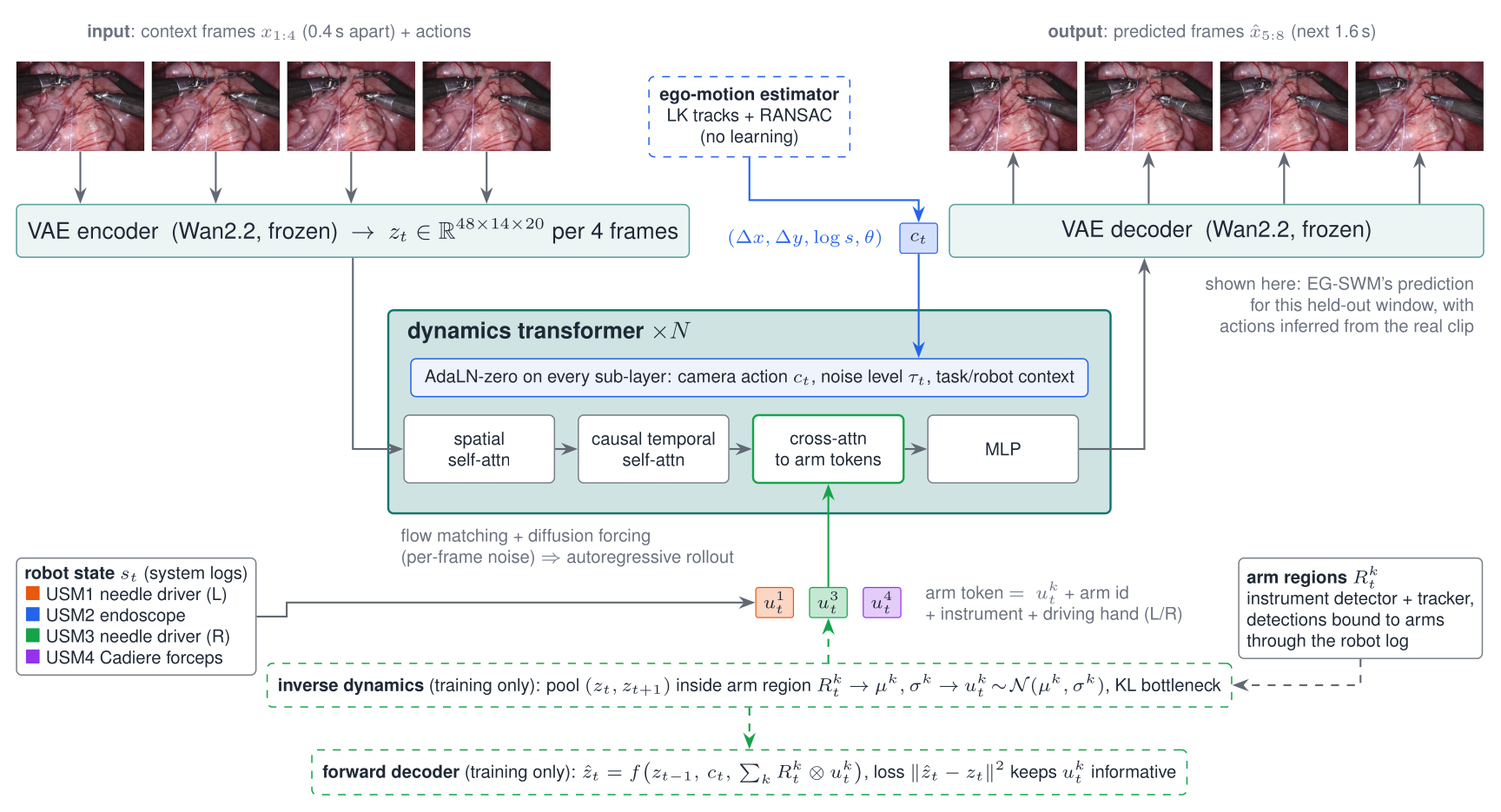
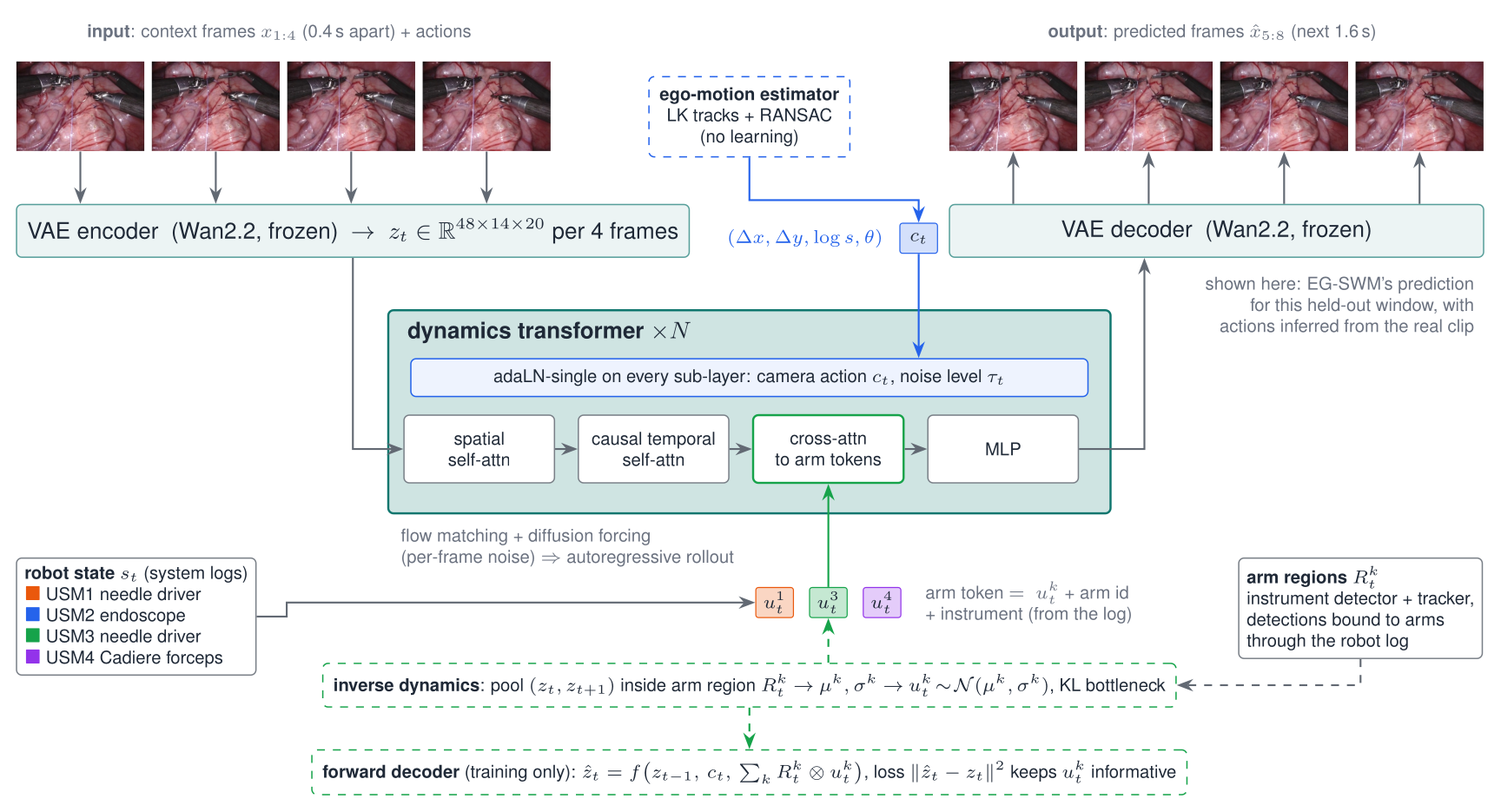
Console-readout ablation (320): adds nothing beyond the log; the arm token and architecture figure now match the evaluated model (no driving hand, adaLN on noise level and endoscope action only)

diff --git a/paper/tmrb/sections/results.tex b/paper/tmrb/sections/results.tex
@@ -37,6 +37,8 @@ Grounding is what makes the arm actions local. When each arm's inverse-dynamics 
 
 The binding through the robot log decides which instrument an action moves. When the instrument arms of each window take each other's regions in a fixed cycle, so that every instrument still has an action but in the token of another arm, fidelity is practically unchanged (\val{diff/S_arms_shuffled-S_arms/psnr}\,dB \val{diff/S_arms_shuffled-S_arms/psnr_ci}) and the actions are used as much (another window's arm actions raise the replay error by \val{use/S_arms_shuffled/swap}\,\% against \val{use/S_arms/swap}\,\%), but replacing an arm's action no longer changes that arm's instrument more than the rest of the frame (locality \val{ctl/S_arms_shuffled/locality} \val{ctl/S_arms_shuffled/locality_ci}, below \method{}'s in \val{diff/S_arms-S_arms_shuffled/locality_wins} of \val{main/n_cases} cases). A wrong binding is invisible to the fidelity metrics; only a test of where each action acts reveals it.
 
+The console overlay adds nothing beyond the robot log. With the driving hand and energy activation of each arm in its token, fidelity is practically unchanged (\val{diff/S_arms_ui-S_arms/psnr}\,dB \val{diff/S_arms_ui-S_arms/psnr_ci}), and so are the use of the actions (another window's arm actions raise the replay error by \val{use/S_arms_ui/swap}\,\%), their locality (\val{ctl/S_arms_ui/locality} \val{ctl/S_arms_ui/locality_ci}) and endoscope control (gain \val{ctl/S_arms_ui/gain}), presumably because actions inferred from the real clip already tell which arms move.
+
 The forward decoder keeps the arm actions in use. Trained on the diffusion loss alone, only \val{use/S_arms_nofwd/active} of the 8 dimensions of each arm action stay active (KL \val{use/S_arms_nofwd/kl} instead of \val{use/S_arms/kl}\,nats per arm), another window's arm actions raise the replay error by \val{use/S_arms_nofwd/swap}\,\% instead of \val{use/S_arms/swap}\,\%, and replaying the inferred actions is worth \val{main/S_arms_nofwd/delta_psnr} instead of \val{main/S_arms/delta_psnr}\,dB over the actions of another window. Their effect is also slightly less local (ratio \val{ctl/S_arms_nofwd/locality}, \val{diff/S_arms-S_arms_nofwd/locality} \val{diff/S_arms-S_arms_nofwd/locality_ci} below \method{}'s), though \method{} is the more local in only \val{diff/S_arms-S_arms_nofwd/locality_wins} of the \val{main/n_cases} cases. The decoder improves fidelity by \val{diff/S_arms-S_arms_nofwd/psnr}\,dB PSNR \val{diff/S_arms-S_arms_nofwd/psnr_ci}, in \val{diff/S_arms-S_arms_nofwd/wins} of \val{main/n_cases} cases, and lowers FVD from \val{main/S_arms_nofwd/fvd} to \val{main/S_arms/fvd}, while the endoscope action is realised about as well without it (mean gain \val{ctl/S_arms_nofwd/gain} against \val{ctl/S_arms/gain}).
 
 \begin{table*}[t]

diff --git a/docs/diagrams/architecture.tex b/docs/diagrams/architecture.tex
@@ -31,7 +31,7 @@
 \node[learn, minimum width=96mm, minimum height=27mm, anchor=north] (dyn) at (97.5, -33) {};
 \node[anchor=north west, font=\sffamily\small\bfseries] at ($(dyn.north west)+(1.5,-0.5)$) {dynamics transformer $\times N$};
 \node[box, draw=cam, fill=cam!8, minimum width=90mm, font=\sffamily\scriptsize, anchor=north] (ada) at (97.5, -39.5)
-  {AdaLN-zero on every sub-layer: camera action $c_t$, noise level $\tau_t$, task/robot context};
+  {adaLN-single on every sub-layer: camera action $c_t$, noise level $\tau_t$};
 \node[box, font=\sffamily\scriptsize, minimum width=20mm, minimum height=9mm, anchor=north west] (sa) at (51.5, -47) {spatial\\ self-attn};
 \node[box, font=\sffamily\scriptsize, minimum width=20mm, minimum height=9mm, right=3mm of sa] (ta) {causal temporal\\ self-attn};
 \node[box, font=\sffamily\scriptsize, minimum width=20mm, minimum height=9mm, right=3mm of ta, draw=armB, line width=0.8pt] (xa) {cross-attn\\ to arm tokens};
@@ -54,11 +54,11 @@
 \node[token, fill=armA!25, draw=armA, left=2mm of u3] (u1) {$u^1_t$};
 
 \node[token, fill=armC!25, draw=armC, right=2mm of u3] (u4) {$u^4_t$};
-\node[note, right=2mm of u4, align=left, anchor=west] (tok) {arm token $=\ u^k_t$ + arm id\\ + instrument + driving hand (L/R)};
+\node[note, right=2mm of u4, align=left, anchor=west] (tok) {arm token $=\ u^k_t$ + arm id\\ + instrument (from the log)};
 \draw[flow, draw=armB] (u3.north) -- (xa.south);
 
 \node[box, draw=armB, dashed, font=\sffamily\scriptsize, align=left, anchor=north] (idm) at (97.5, -80)
-  {\textbf{inverse dynamics} (training only): pool $(z_t, z_{t+1})$ inside arm region $R^k_t$ $\to$
+  {\textbf{inverse dynamics}: pool $(z_t, z_{t+1})$ inside arm region $R^k_t$ $\to$
    $\mu^k,\sigma^k$ $\to$ $u^k_t\!\sim\!\mathcal{N}(\mu^k,\sigma^k)$, KL bottleneck};
 \draw[flow, draw=armB, dashed] (u3.south |- idm.north) -- (u3.south);
 \node[box, draw=armB, dashed, font=\sffamily\scriptsize, align=left, anchor=north] (fwd) at (97.5, -91.5)
@@ -68,9 +68,9 @@
 
 \node[box, align=left, font=\sffamily\scriptsize, anchor=north west, inner sep=3pt] (state) at (0, -66) {%
   \textbf{robot state} $s_t$ (system logs)\\
-  \textcolor{armA}{$\blacksquare$} USM1 needle driver (L)\\
+  \textcolor{armA}{$\blacksquare$} USM1 needle driver\\
   \textcolor{cam}{$\blacksquare$} USM2 endoscope\\
-  \textcolor{armB}{$\blacksquare$} USM3 needle driver (R)\\
+  \textcolor{armB}{$\blacksquare$} USM3 needle driver\\
   \textcolor{armC}{$\blacksquare$} USM4 Cadiere forceps};
 \draw[flow] (state.east) -- ++(4,0) |- (u1.west);
 

diff --git a/paper/tmrb/sections/method.tex b/paper/tmrb/sections/method.tex
@@ -35,9 +35,9 @@ with $u^k_t\in\mathbb{R}^{8}$. A Kullback--Leibler penalty towards $\mathcal{N}(
 \subsection{Dynamics transformer}
 The dynamics model is a latent spatio-temporal diffusion transformer. Latent positions become tokens; each block applies self-attention within a frame with 2-D rotary embeddings \cite{rope}, causal self-attention across frames at each position, cross-attention to the arm tokens of the frame, and a SwiGLU MLP. Arm $k$ at step $t$ contributes the token
 \begin{equation}
-e^k_t=W_u u^k_t+E_{\mathrm{arm}}[k]+E_{\mathrm{occ}}[o^k_t]+E_{\mathrm{hand}}[h^k_t],
+e^k_t=W_u u^k_t+E_{\mathrm{arm}}[k]+E_{\mathrm{occ}}[o^k_t],
 \end{equation}
-where $h^k_t$ is the driving hand when the overlay shows it. The noise level and the endoscope action modulate every sub-layer through adaptive normalization with a shared projection and per-block offsets \cite{pixartalpha}.
+with $o^k_t$ the occupant from the robot log. Adding the driving hand and energy activation read from the console overlay changes neither prediction nor control (Section~\ref{sec:parts}), so \method{} does without them. The noise level and the endoscope action modulate every sub-layer through adaptive normalization with a shared projection and per-block offsets \cite{pixartalpha}.
 
 \subsection{Training objective}
 We train with rectified flow \cite{rectflow,flowmatching}. Every latent frame has its own noise level $\tau_t\in[0,1]$, $x_t=(1-\tau_t)z_t+\tau_t\epsilon_t$, and the network predicts the velocity $\epsilon_t-z_t$:

diff --git a/paper/tmrb/sections/data.tex b/paper/tmrb/sections/data.tex
@@ -12,7 +12,7 @@ The logs record part-relative times; converted to a single case timeline they gi
 \end{figure*}
 
 \subsection{Console overlay}
-The surgeon console renders a status band over the recorded video on 81\,\% of usable frames. Per arm it shows the mounted instrument, the endoscope, the hand (left/right) that currently drives the arm, and energy activation. We crop the band away before the model sees any pixel, so that the model cannot read instrument identities from the screen, and use the overlay only as a source of conditioning and evaluation labels.
+The surgeon console renders a status band over the recorded video on 81\,\% of usable frames. Per arm it shows the mounted instrument, the endoscope, the hand (left/right) that currently drives the arm, and energy activation. We crop the band away before the model sees any pixel, so that the model cannot read instrument identities from the screen. The driving hand and energy activation of each arm, read from the band, are tested as additional conditioning (Section~\ref{sec:parts}).
 
 \begin{figure*}[t]
 \centering

diff --git a/src/swm/models/world_model.py b/src/swm/models/world_model.py
@@ -1,7 +1,7 @@
 """EG-SWM and its baselines: one dynamics transformer, different action interfaces.
 
 action = "none"    no tokens at all (unconditional video prediction)
-         "state"   robot-state tokens only (arm id + occupant + hand), no learned action
+         "state"   robot-state tokens only (arm id + occupant; + driving hand and energy with use_ui), no learned action
          "global"  robot-state tokens + one monolithic latent action per transition (continuous)
          "global_vq" as "global" but a discrete action from a 12-entry codebook (Genie / SurgWM style)
          "slots"   robot-state tokens + K unsupervised slot actions (FLAM style)

diff --git a/README.md b/README.md
@@ -5,7 +5,7 @@
 * Weights (public, CC BY-NC-SA 4.0): <https://huggingface.co/GOVINDFROM/surgical-world-model> — one folder per finished run (EMA weights, config, evaluation summaries), published by each queue job
 * Research documents: [data audit](docs/01_data_audit.md) · [external data](docs/02_external_data.md) · [literature review](docs/03_literature_review.md) · [research plan](docs/04_research_plan.md) · [legacy](docs/legacy.md)
 
-## Status (updated 2026-11-05, 11:25 IST)
+## Status (updated 2026-11-05, 18:20 IST)
 
 | Stage | State |
 |---|---|
@@ -16,8 +16,8 @@
 | Camera-action validation (E2b) | done on CRCD (endoscope-arm kinematics) and AutoLaparo (surgeon-labelled laparoscope moves) — see results below |
 | External downloads | all done; AutoLaparo Task 2 received from the authors (300 clips, 3.8 GB) and used for E2b |
 | Pilot (S, partial data) | diffusion loss only: learned arm actions collapse; the forward-decoder objective (not the weaker bottleneck) makes them used, and action replay is 12 % more accurate (confirmed at full scale by `305`). The monolithic action replays 17 % better still, almost all outside the instrument regions; a scene action (`095`) closes the gap but weakens the endoscope action; neither learned-only dropout (`096`) nor camera-stabilised inference (`097`) restores it; arms + scene ran as a full variant (`205`, below) |
-| 10 controlled runs (incl. arms + scene) → reference evaluation → 5 grounding/readout/objective ablations | all 10 interface runs done and evaluated, weights on Hugging Face. Fidelity and control pull apart: the learned actions that cover the whole frame (slots, monolithic, scene) predict 0.4–0.8 dB better than EG-SWM in every case but realise only 5–22 % of a commanded endoscope move (EG-SWM 70 %); among the interfaces that keep the endoscope controllable, EG-SWM leads SurgWM-style VQ by 0.70 dB and robot state by 1.57 dB, and it is the only one that steers each instrument and beats a copied frame. The endoscope action is worth 0.49 dB to EG-SWM. The fidelity gap sits where no instrument is bound to an arm: with two or more bound, EG-SWM trails the monolithic latent by only 0.18 dB. Ablations: grounding (`S_arms_poolglobal`, done 4 Nov) is what makes the arm actions local — pooled over the whole frame they predict as well (+0.06 dB) but locality falls from 2.42× to 1.84×; the forward decoder (`S_arms_nofwd`, done 5 Nov) keeps them in use — without it only 3 of 8 action dimensions stay active and the picture is 0.36 dB worse in every case; the arm binding (`S_arms_shuffled`, done 5 Nov) decides which instrument an action moves — with a wrong one the picture is unchanged but locality falls to 0.90×, lower in all 19 cases; next console readout, held boxes (≈ 6.7 h each). A power cut stopped the machine from 29 Oct 16:23 to 2 Nov 13:38, and a Wi-Fi outage on 3 Nov delayed two uploads (caught up) |
-| Pre-submission checklist (4 Nov), see [research plan §10](docs/04_research_plan.md#10-pre-submission-checklist) | queued after E3: SurgWM re-implementation (`600`–`603`), E3 on SRT-H (`610`–`619`), E4 on SAR-RARP50 (`620`–`625`), seeds 1–2 of EG-SWM, monolithic, slots and VQ (`710`–`717`), KL weight and data scale (`720`–`731`); sensitivity to sampler, context and command size without `case_126` (`330`–`332`); figures from model rollouts (`302`); 14 s rollouts (`333`); a test of the scene-action explanation (`334`); boxes held across detector gaps (`325`); locality intervals over cases (`306`). The SurgWM smoke test (`301`) showed both of its quantisers collapsing, so the re-implementation now follows the paper's moving-average quantisers and 16-frame clips and the authors' released action model (causal, one prompt token per frame); re-tested by `304`, which passed. Cross-checked against the checklist on 4 Nov: every compared run has the same size, steps, batch, seed and data, and every evaluation the same windows without `case_126`; the wrong-binding ablation (`310`) was corrected before it ran (it also switched off 12 % of the arm actions); SurgWM now also gets locality and embodiment consistency (`603`; its smoke test `308` passed on 5 Nov); the zero-shot kinematic probes include the forward-decoder and endoscope ablations; the paper's protocol text and B parameter count were corrected, and every result number in its text is now generated. About 216 GPU-hours remain (SurgWM about 57 of them), so with the size-B flagship (designed once the ablations finish) the queue runs to about 14–15 Nov |
+| 10 controlled runs (incl. arms + scene) → reference evaluation → 5 grounding/readout/objective ablations | all 10 interface runs done and evaluated, weights on Hugging Face. Fidelity and control pull apart: the learned actions that cover the whole frame (slots, monolithic, scene) predict 0.4–0.8 dB better than EG-SWM in every case but realise only 5–22 % of a commanded endoscope move (EG-SWM 70 %); among the interfaces that keep the endoscope controllable, EG-SWM leads SurgWM-style VQ by 0.70 dB and robot state by 1.57 dB, and it is the only one that steers each instrument and beats a copied frame. The endoscope action is worth 0.49 dB to EG-SWM. The fidelity gap sits where no instrument is bound to an arm: with two or more bound, EG-SWM trails the monolithic latent by only 0.18 dB. Ablations: grounding (`S_arms_poolglobal`, done 4 Nov) is what makes the arm actions local — pooled over the whole frame they predict as well (+0.06 dB) but locality falls from 2.42× to 1.84×; the forward decoder (`S_arms_nofwd`, done 5 Nov) keeps them in use — without it only 3 of 8 action dimensions stay active and the picture is 0.36 dB worse in every case; the arm binding (`S_arms_shuffled`, done 5 Nov) decides which instrument an action moves — with a wrong one the picture is unchanged but locality falls to 0.90×, lower in all 19 cases; the console readout (`S_arms_ui`, done 5 Nov) adds nothing beyond the log (−0.02 dB, locality 2.40×); next held boxes (≈ 6.7 h). A power cut stopped the machine from 29 Oct 16:23 to 2 Nov 13:38, and a Wi-Fi outage on 3 Nov delayed two uploads (caught up) |
+| Pre-submission checklist (4 Nov), see [research plan §10](docs/04_research_plan.md#10-pre-submission-checklist) | queued after E3: SurgWM re-implementation (`600`–`603`), E3 on SRT-H (`610`–`619`), E4 on SAR-RARP50 (`620`–`625`), seeds 1–2 of EG-SWM, monolithic, slots and VQ (`710`–`717`), KL weight and data scale (`720`–`731`); sensitivity to sampler, context and command size without `case_126` (`330`–`332`); figures from model rollouts (`302`); 14 s rollouts (`333`); a test of the scene-action explanation (`334`); boxes held across detector gaps (`325`); locality intervals over cases (`306`). The SurgWM smoke test (`301`) showed both of its quantisers collapsing, so the re-implementation now follows the paper's moving-average quantisers and 16-frame clips and the authors' released action model (causal, one prompt token per frame); re-tested by `304`, which passed. Cross-checked against the checklist on 4 Nov: every compared run has the same size, steps, batch, seed and data, and every evaluation the same windows without `case_126`; the wrong-binding ablation (`310`) was corrected before it ran (it also switched off 12 % of the arm actions); SurgWM now also gets locality and embodiment consistency (`603`; its smoke test `308` passed on 5 Nov); the zero-shot kinematic probes include the forward-decoder and endoscope ablations; the paper's protocol text and B parameter count were corrected, and every result number in its text is now generated. About 209 GPU-hours remain (SurgWM about 57 of them), so with the size-B flagship (designed once the ablations finish) the queue runs to about 14–15 Nov |
 | Manuscript | draft in `paper/tmrb`; results tables generated by `scripts/eval/aggregate.py` |
 
 Results tables appear in [docs/results/](docs/results/) as runs finish.
@@ -44,7 +44,7 @@ Compared action interfaces, all sharing tokenizer, backbone, data and budget: `n
 
 ![Data pipeline](docs/figures/pipeline.png)
 
-*One decode pass turns 837.8 h of 720p60 da Vinci video into a 10 fps cache (640×512, visually lossless) and, per frame, quality flags and the endoscope's ego-motion. Robot-side signals — the system logs' arm occupancy (which arm holds the endoscope and which instrument sits on every other arm) and the console overlay burned into the video (driving hand, energy) — bind detected instruments to robot arms. The world model sees only the 224×320 endoscope field, never the overlay, so it cannot read instrument names off the screen.*
+*One decode pass turns 837.8 h of 720p60 da Vinci video into a 10 fps cache (640×512, visually lossless) and, per frame, quality flags and the endoscope's ego-motion. The system logs' arm occupancy (which arm holds the endoscope and which instrument sits on every other arm) binds detected instruments to robot arms; the console overlay burned into the video is read as well (driving hand, energy) and was tested as extra conditioning, which adds nothing. The world model sees only the 224×320 endoscope field, never the overlay, so it cannot read instrument names off the screen.*
 
 ### Model
 
@@ -56,7 +56,7 @@ Compared action interfaces, all sharing tokenizer, backbone, data and budget: `n
 
 **Actions.** For each latent step the action is $a_t=(c_t,\{u^k_t\}_k)$:
 * $c_t=(\Delta x,\Delta y,\log s,\theta)$ — endoscope ego-motion, *measured* (Lucas–Kanade tracks + RANSAC similarity, instruments rejected as outliers) for each of the 4 frame transitions in a latent step, plus a validity flag per transition so that "not measured" is never read as "endoscope still". It enters every transformer sub-layer through AdaLN.
-* $u^k_t$ — a low-dimensional *learned* action for instrument arm $k$, produced during training by an inverse-dynamics head that only sees the latents inside that arm's region $R^k_t$ (instrument detector + tracker, detections bound to arms through the robot log) and is regularised by a KL bottleneck (β = 10⁻⁴). A small convolutional *forward decoder* must predict each latent from its predecessor, $c_t$ and the arm actions written into their regions (latent-action-model objective, as in Genie/LAPA/AdaWorld but grounded); without it the actions collapse — see the pilot below. Each arm becomes a token (action + arm id + instrument + driving hand) that the video tokens cross-attend to.
+* $u^k_t$ — a low-dimensional *learned* action for instrument arm $k$, produced during training by an inverse-dynamics head that only sees the latents inside that arm's region $R^k_t$ (instrument detector + tracker, detections bound to arms through the robot log) and is regularised by a KL bottleneck (β = 10⁻⁴). A small convolutional *forward decoder* must predict each latent from its predecessor, $c_t$ and the arm actions written into their regions (latent-action-model objective, as in Genie/LAPA/AdaWorld but grounded); without it the actions collapse — see the pilot below. Each arm becomes a token (action + arm id + instrument from the log) that the video tokens cross-attend to; the driving hand and energy read from the console overlay add nothing (ablation `S_arms_ui`) and are left out.
 
 **Dynamics.** A latent spatio-temporal diffusion transformer (spatial self-attention per frame, causal temporal self-attention, cross-attention to arm tokens, MLP) trained with flow matching and per-frame noise levels (diffusion forcing), so it can roll out autoregressively from any number of context frames.
 
@@ -240,6 +240,8 @@ With two or more instruments bound (73 % of the windows) EG-SWM trails the monol
 **Grounding is what makes the arm actions local** ([ablations](docs/results/e6_ablations.md)). With each arm's inverse-dynamics head and its forward-decoder input spread over the whole frame instead of its instrument's region (`S_arms_poolglobal`; still one action per arm, bound through the robot log), the picture barely changes (+0.06 dB PSNR [0.03, 0.09] over EG-SWM, which is better in 5 of 19 cases), but locality falls from 2.42× to 1.84×, 60 % of the way to the monolithic latent (1.46×), and the endoscope gain from 0.70 to 0.65. Locality is lower in all 19 cases (by 0.58 [0.48, 0.76]; [intervals](docs/results/e1_locality.md)).
 
 **The robot log decides which instrument an action moves** ([ablations](docs/results/e6_ablations.md)). With the instrument arms of each window taking each other's regions in a fixed cycle (`S_arms_shuffled`; every instrument keeps an action, but in another arm's token), the picture is practically unchanged (−0.02 dB PSNR [−0.04, −0.00], FVD 186 for both) and the actions are used as much (another window's arm actions raise the replay error by 32 % against 33 %). But replacing an arm's action no longer changes that arm's instrument more than the rest of the frame: locality falls from 2.42× to 0.90× [0.80, 0.99], lower in all 19 cases. A wrong binding is invisible to the fidelity metrics; only the locality test catches it. Endoscope control (gain 0.70) and unmounted instruments (7.6 %) are unaffected.
+
+**The console overlay adds nothing beyond the robot log** ([ablations](docs/results/e6_ablations.md)). With the driving hand and energy activation of each arm in its token (`S_arms_ui`), the picture is practically unchanged (−0.02 dB PSNR [−0.05, −0.00], FVD 184 against 186), and so are the use of the actions (another window's arm actions raise the replay error by 33 %, as for EG-SWM), their locality (2.40× [2.22, 2.63]; difference 0.01 [−0.07, 0.16]) and endoscope control (gain 0.70) — presumably because the actions inferred from the real clip already tell which arms move. EG-SWM therefore conditions on the logs only.
 
 **The forward decoder keeps the arm actions in use** ([ablations](docs/results/e6_ablations.md)). Trained on the diffusion loss alone at full scale (`S_arms_nofwd`, β = 10⁻⁴, otherwise identical), only 3 of the 8 dimensions of each arm action stay active (KL 3.4 instead of 15.3 nats per arm), another window's arm actions raise the replay error by 17 % instead of 33 %, and replaying the inferred actions is worth 2.47 instead of 2.78 dB over another window's. The picture is worse in all 19 cases: −0.36 dB PSNR [−0.39, −0.32], −0.011 SSIM, +0.008 LPIPS, FVD 204 against 186. The endoscope action is realised about as well (mean gain 0.69 against 0.70), and unmounted instruments are as rare (7.4 % against 7.6 %). The 12k-step pilot kept 6 of 8 dimensions active without the decoder; after 60k steps 3 remain. Locality is slightly lower (2.21× [2.09, 2.40] against 2.42× [2.29, 2.70], a difference of 0.21 [0.10, 0.42]), but EG-SWM is the more local in only 10 of the 19 cases.
 

diff --git a/docs/04_research_plan.md b/docs/04_research_plan.md
@@ -25,7 +25,7 @@ Following MeWM's decomposition: the **dynamics model** is the world model; its a
 
 1. **Observation.** Endoscope field only (active columns 193–1086, rows 56–679 → no console UI, so no shortcut to instrument names), 224×320 for development, 288×416 for final runs; 8 fps; training clips of 16 frames (4 context + 12 predicted); rollouts to 16 s.
 2. **Tokenizer.** Frozen pretrained continuous VAE (f8, 16 ch); SurgWM-style VQ-VAE trained from scratch as an ablation.
-3. **Robot state s_t** (conditioning, never pixels): camera arm, instrument class on each arm (logs), driving hand L/R per arm and energy event (UI readout, when visible).
+3. **Robot state s_t** (conditioning, never pixels): camera arm, instrument class on each arm (logs), driving hand L/R per arm and energy event (UI readout, when visible). The UI readout was tested as an ablation (`320`, 5 Nov) and adds nothing, so EG-SWM conditions on the logs only.
 4. **Actions a_t = (c_t, u_t^1..K, e_t).**
    * **c_t — endoscope ego-motion**, explicit: similarity/homography fitted with RANSAC to dense optical flow on tissue pixels, instruments masked out. Validated on synthetic warps and on Open-H episodes with recorded endoscope kinematics.
    * **u_t^k — per-arm latent action** (low-dimensional, bottlenecked): inferred from consecutive latents restricted to arm k's instrument region. Regions come from the instrument detector + tracker; detections are bound to arms through the instrument identity in the robot log (same-class ties broken by image side and the UI's L/R tag).
@@ -117,7 +117,7 @@ Status on 4 Nov 2026 of a reviewer-oriented checklist: comparisons, standard dat
 | E5 expert study | planned; needs surgeons; material from the E1 rollouts |
 | **Ablations (E6)** | |
 | Endoscope action | done (`*_nocam`) |
-| Whole-frame pooling, no forward decoder, wrong arm binding, console readout | `300` and `305`–`320`; `300`, `305` and `310` done (grounding makes the arm actions local; the forward decoder keeps them in use: without it 3 of 8 dimensions stay active and PSNR falls 0.36 dB in all 19 cases; a wrong binding leaves fidelity unchanged, but an arm's action no longer acts mainly on its own instrument: locality 0.90 against 2.42, lower in all 19 cases). The wrong binding was corrected before `310` ran (4 Nov): it permuted the regions of all four arms, so instrument arms also took the endoscope's or an empty arm's region (no region, so no action: 12 % of the active arm actions of 300 test windows lost) and a quarter kept their own; now the instrument arms of a window take each other's regions in a cycle, which changes the binding of every instrument in the 90 % of windows with two or more and keeps the number of active actions |
+| Whole-frame pooling, no forward decoder, wrong arm binding, console readout | `300` and `305`–`320`; `300`, `305` and `310` done (grounding makes the arm actions local; the forward decoder keeps them in use: without it 3 of 8 dimensions stay active and PSNR falls 0.36 dB in all 19 cases; a wrong binding leaves fidelity unchanged, but an arm's action no longer acts mainly on its own instrument: locality 0.90 against 2.42, lower in all 19 cases). `320` done: the console readout adds nothing (−0.02 dB, locality 2.40). The wrong binding was corrected before `310` ran (4 Nov): it permuted the regions of all four arms, so instrument arms also took the endoscope's or an empty arm's region (no region, so no action: 12 % of the active arm actions of 300 test windows lost) and a quarter kept their own; now the instrument arms of a window take each other's regions in a cycle, which changes the binding of every instrument in the 90 % of windows with two or more and keeps the number of active actions |
 | Boxes held across detector gaps (binding coverage 73 % → 79 % of a mounted instrument's steps) | queued `325` |
 | KL weight 10⁻³, 10⁻⁵ | queued `720`, `721` |
 | Scene action | done |
